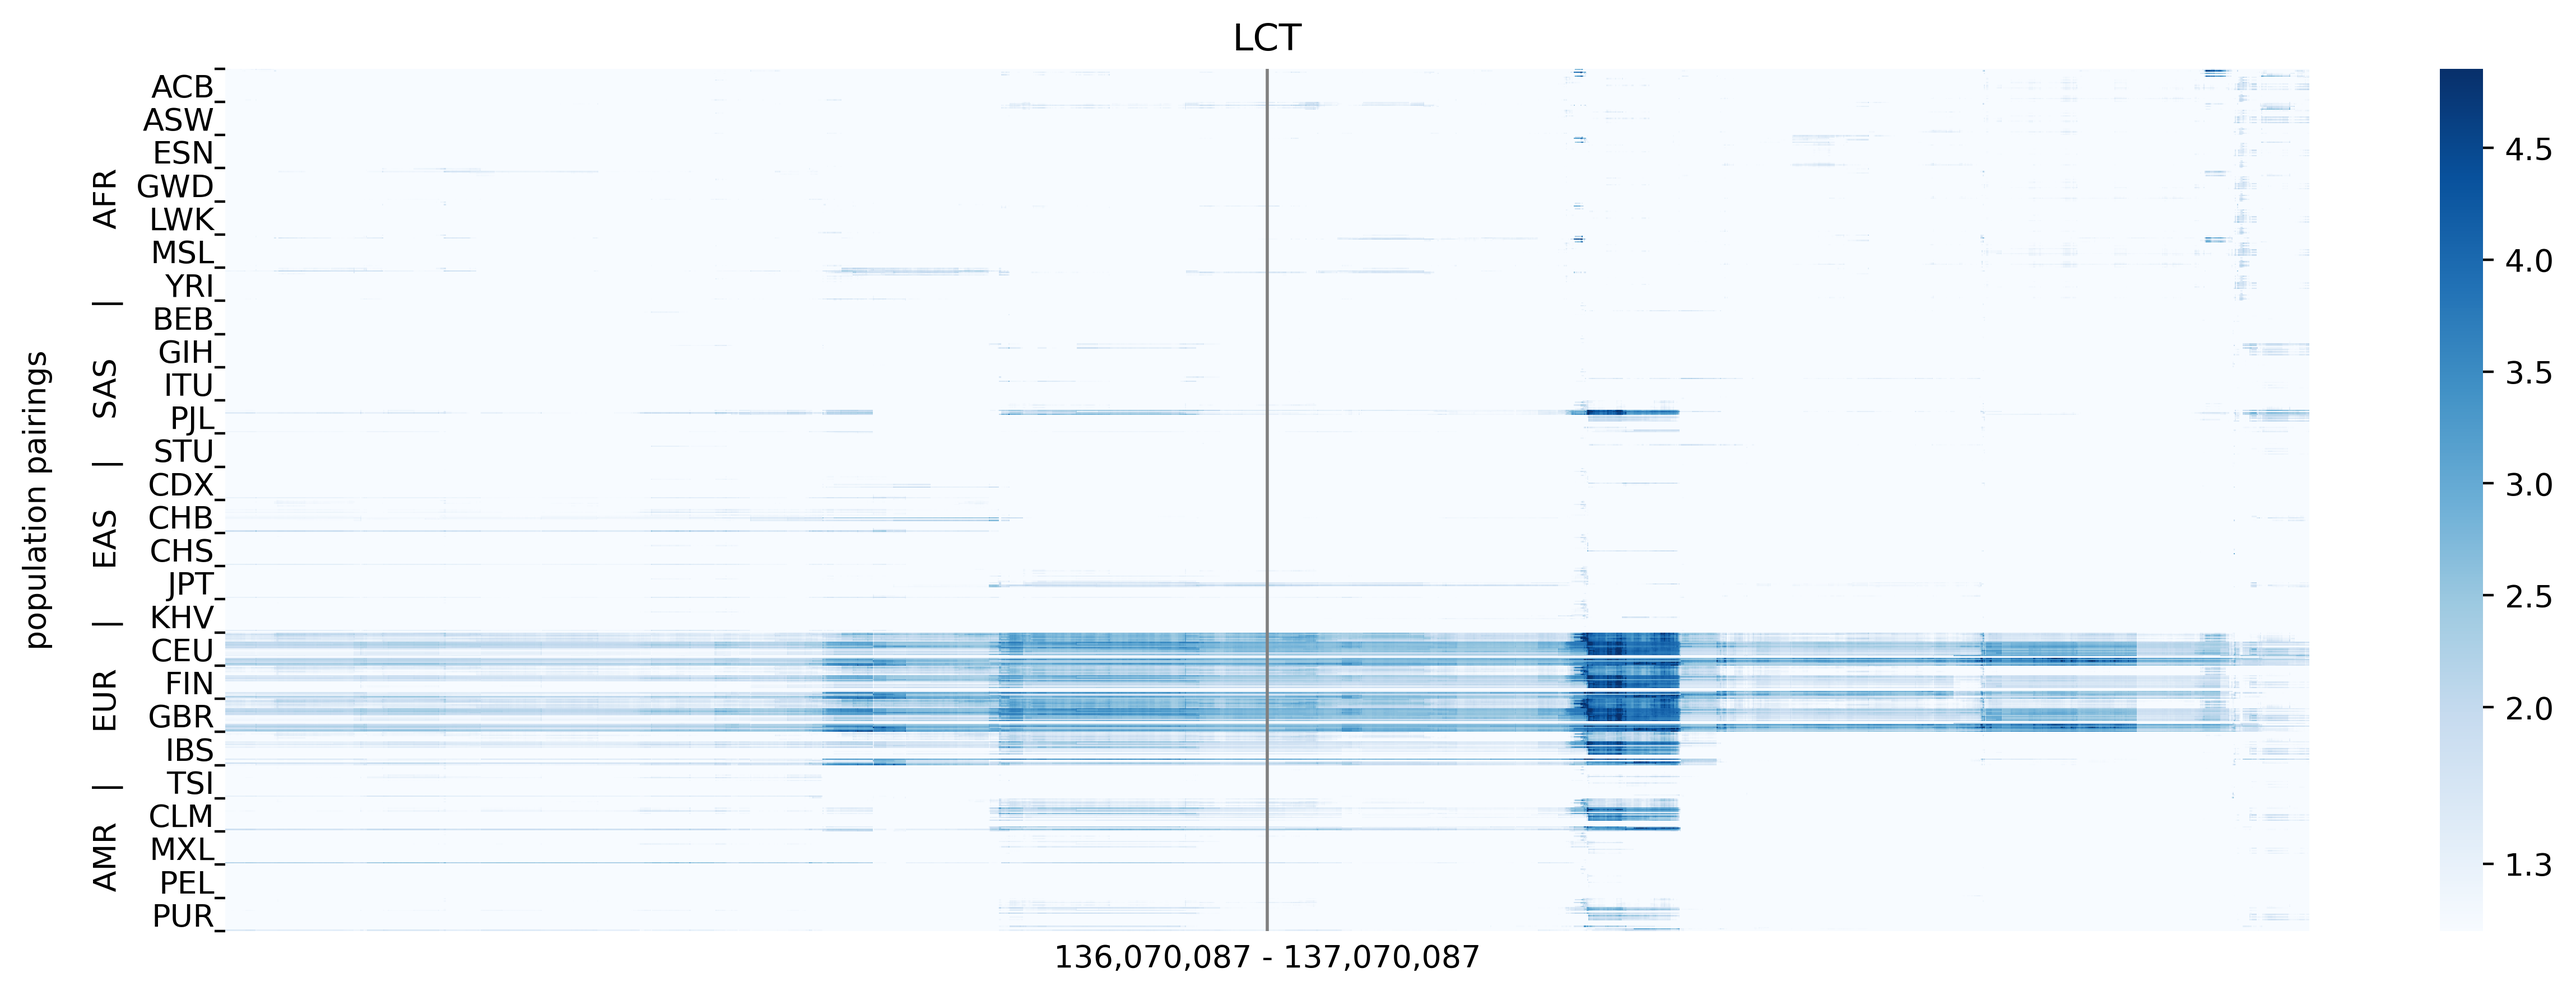
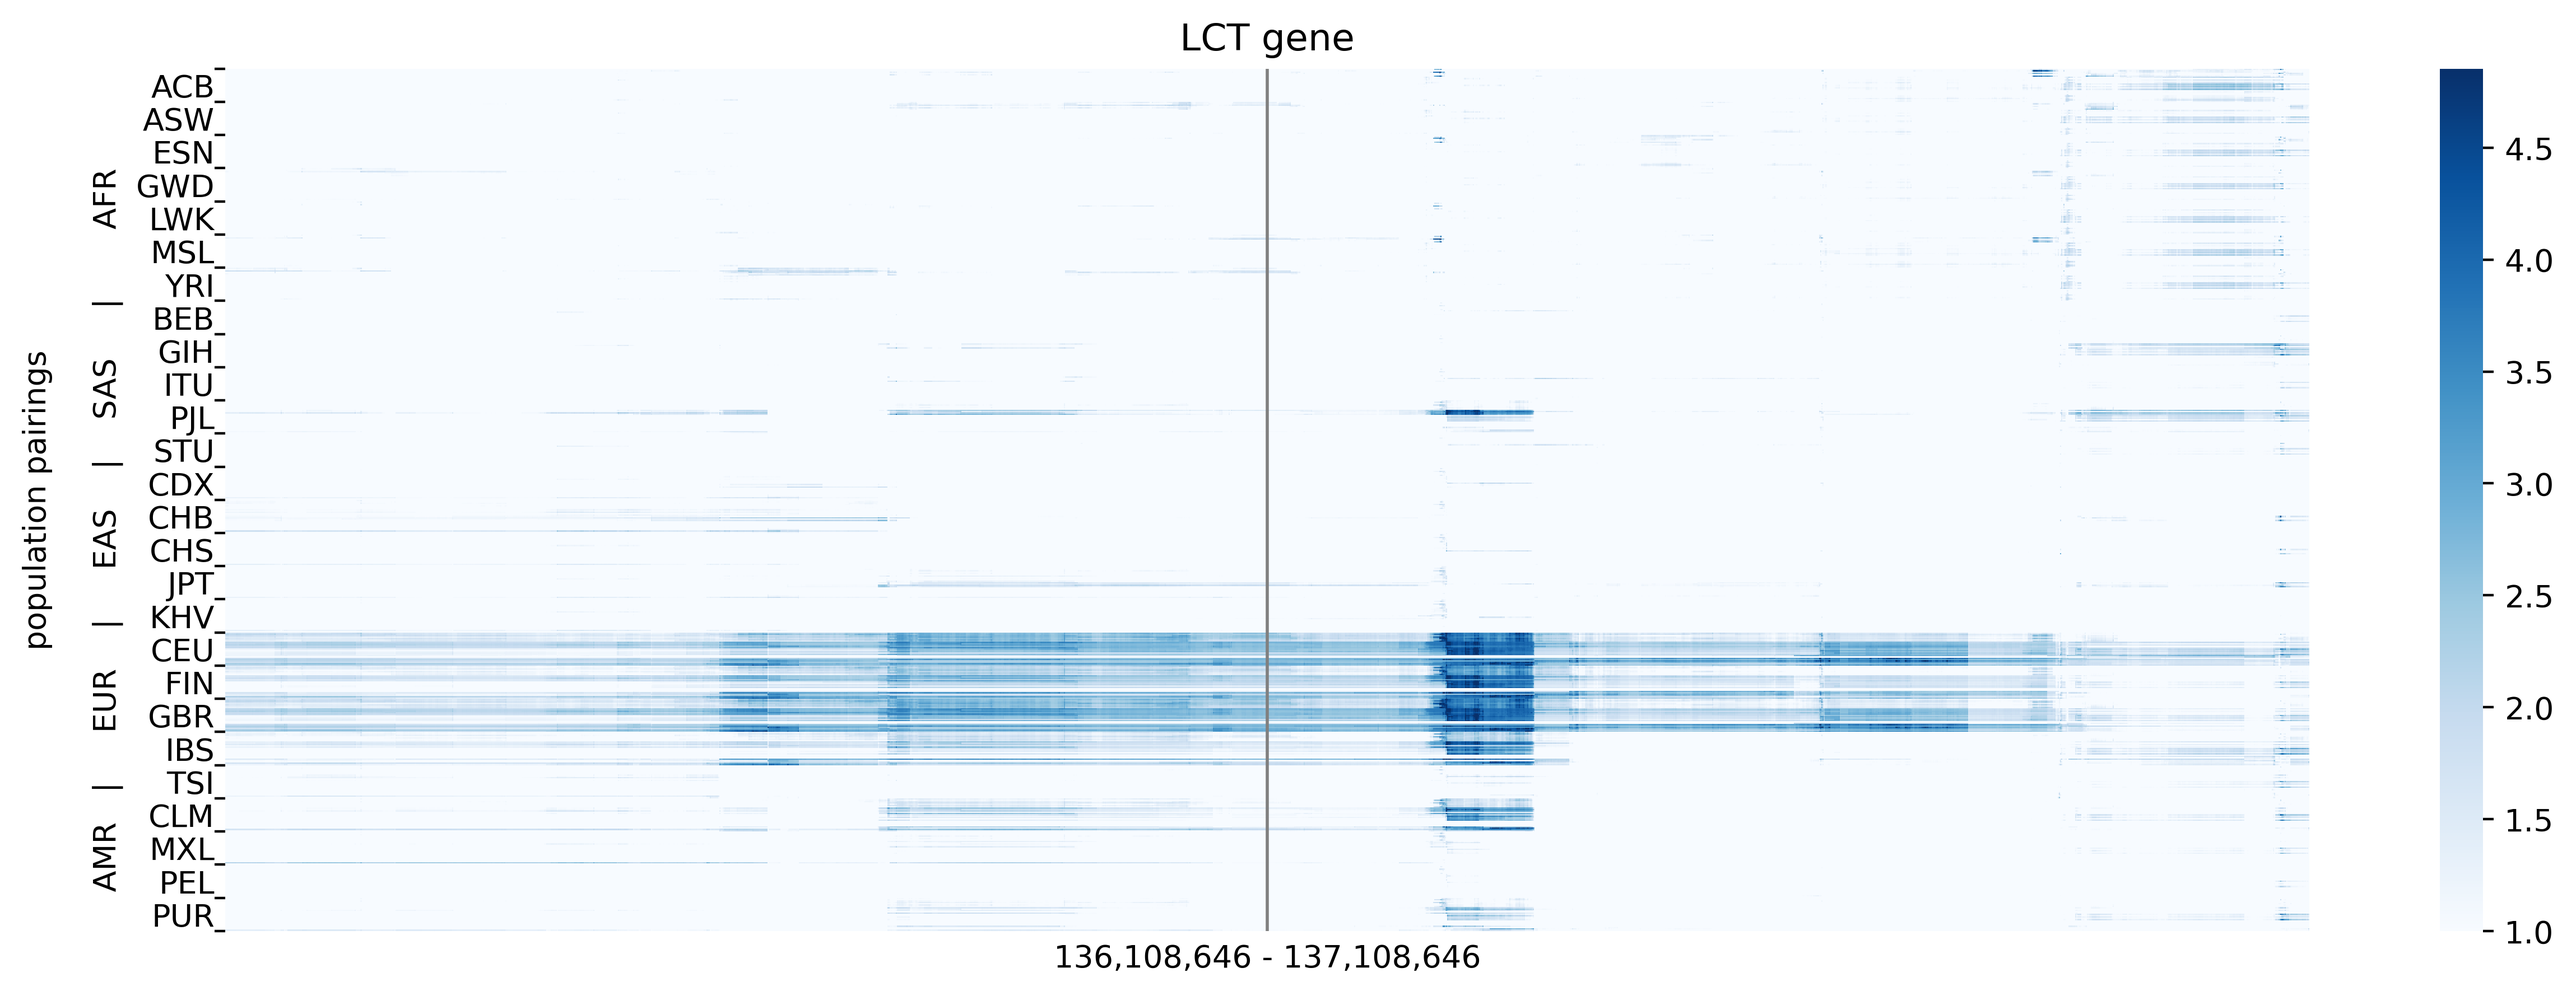
Example correction

diff --git a/README.md b/README.md
@@ -66,7 +66,7 @@ tar -xzf chr2_output.tar.gz
 ```
 **Step 3**: Run the exp_heatmap plot command:
 ```bash
-exp_heatmap plot chr2_output/ --start 136070087 --end 137070087 --title "LCT gene" --output LCT_xpehh
+exp_heatmap plot chr2_output/ --start 136108646 --end 137108646 --title "LCT gene" --output LCT_xpehh
 ```
 The `exp_heatmap` package will read the files from `chr2.xpehh.example/` folder and create the ExP heatmap and save it as `LCT_xpehh.png` file.
 
